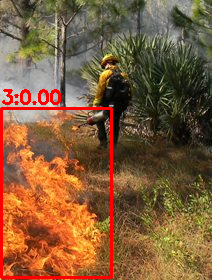
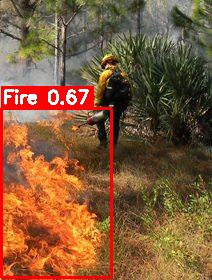
fix(visualization): bbox 라벨 및 confidence 잘못 표시되던 문제 수정
- class_id를 Fire/Smoke 레이블로 변환하도록 개선
- confidence가 0.00으로 출력되던 버그 해결
- 클래스별 색상 및 텍스트 배경박스 추가

Changed region(s): [[0.0, 0.2857, 0.4528, 0.4]]

diff --git a/backend/services/visualization_service.py b/backend/services/visualization_service.py
@@ -2,52 +2,22 @@ import cv2
 import numpy as np
 from pathlib import Path
 
-class VisualizationService:
+# YOLO Fire/Smoke 클래스 매핑
+LABELS = {
+    0: "Smoke_White",
+    1: "Smoke_Grey",
+    2: "Smoke_Black",
+    3: "Fire"
+}
 
-    @staticmethod
-    def draw_detections(img_bgr: np.ndarray, detections: np.ndarray):
-        """
-        YOLO FireDetector.detect() 결과를 받아서 bounding boxes를 이미지에 그린다.
-        detections: Nx6 (x1, y1, x2, y2, conf, cls)
-        """
-        annotated = img_bgr.copy()
+# 클래스별 색상 (원하면 커스터마이징 가능)
+COLORS = {
+    0: (200, 200, 200),  # Smoke White - Light Gray
+    1: (128, 128, 128),  # Smoke Grey - Gray
+    2: (50, 50, 50),     # Smoke Black - Dark Gray
+    3: (0, 0, 255)       # Fire - Red
+}
 
-        for det in detections:
-            x1, y1, x2, y2, conf, cls = det.astype(int)
-
-            # 박스
-            cv2.rectangle(
-                annotated, 
-                (x1, y1), (x2, y2), 
-                (0, 0, 255), 2
-            )
-
-            # 텍스트
-            text = f"{int(cls)}:{conf:.2f}"
-            cv2.putText(
-                annotated, text, (x1, y1 - 5),
-                cv2.FONT_HERSHEY_SIMPLEX, 0.6,
-                (0, 0, 255), 2
-            )
-
-        return annotated
-
-
-    @staticmethod
-    def save_result_image(img_bgr: np.ndarray, filename: str):
-        """
-        추론 결과 이미지를 backend/static/results/ 에 저장함.
-        """
-        save_dir = Path("backend/static/results")
-        save_dir.mkdir(parents=True, exist_ok=True)
-
-        save_path = save_dir / f"result_{filename}"
-        cv2.imwrite(str(save_path), img_bgr)
-
-        return str(save_path)
-import cv2
-import numpy as np
-from pathlib import Path
 
 class VisualizationService:
 
@@ -60,21 +30,49 @@ class VisualizationService:
         annotated = img_bgr.copy()
 
         for det in detections:
-            x1, y1, x2, y2, conf, cls = det.astype(int)
+            # det: [x1, y1, x2, y2, conf, cls]
+            x1, y1, x2, y2, conf, cls = det
 
-            # 박스
+            # 좌표는 정수 변환
+            x1, y1, x2, y2 = map(int, [x1, y1, x2, y2])
+            cls = int(cls)
+            conf = float(conf)
+
+            label = LABELS.get(cls, str(cls))
+            color = COLORS.get(cls, (0, 0, 255))  # default red
+
+            # 박스 그리기
             cv2.rectangle(
-                annotated, 
-                (x1, y1), (x2, y2), 
-                (0, 0, 255), 2
+                annotated,
+                (x1, y1), (x2, y2),
+                color,
+                2
             )
 
-            # 텍스트
-            text = f"{int(cls)}:{conf:.2f}"
+            # 텍스트: "Fire 0.87" 형태
+            text = f"{label} {conf:.2f}"
+
+            # 텍스트 배경박스
+            (tw, th), baseline = cv2.getTextSize(
+                text, cv2.FONT_HERSHEY_SIMPLEX, 0.6, 2
+            )
+            cv2.rectangle(
+                annotated,
+                (x1, y1 - th - 8),
+                (x1 + tw + 4, y1),
+                color,
+                -1
+            )
+
+            # 텍스트 그리기
             cv2.putText(
-                annotated, text, (x1, y1 - 5),
-                cv2.FONT_HERSHEY_SIMPLEX, 0.6,
-                (0, 0, 255), 2
+                annotated,
+                text,
+                (x1 + 2, y1 - 5),
+                cv2.FONT_HERSHEY_SIMPLEX,
+                0.6,
+                (255, 255, 255),  # white text
+                2
             )
 
         return annotated
